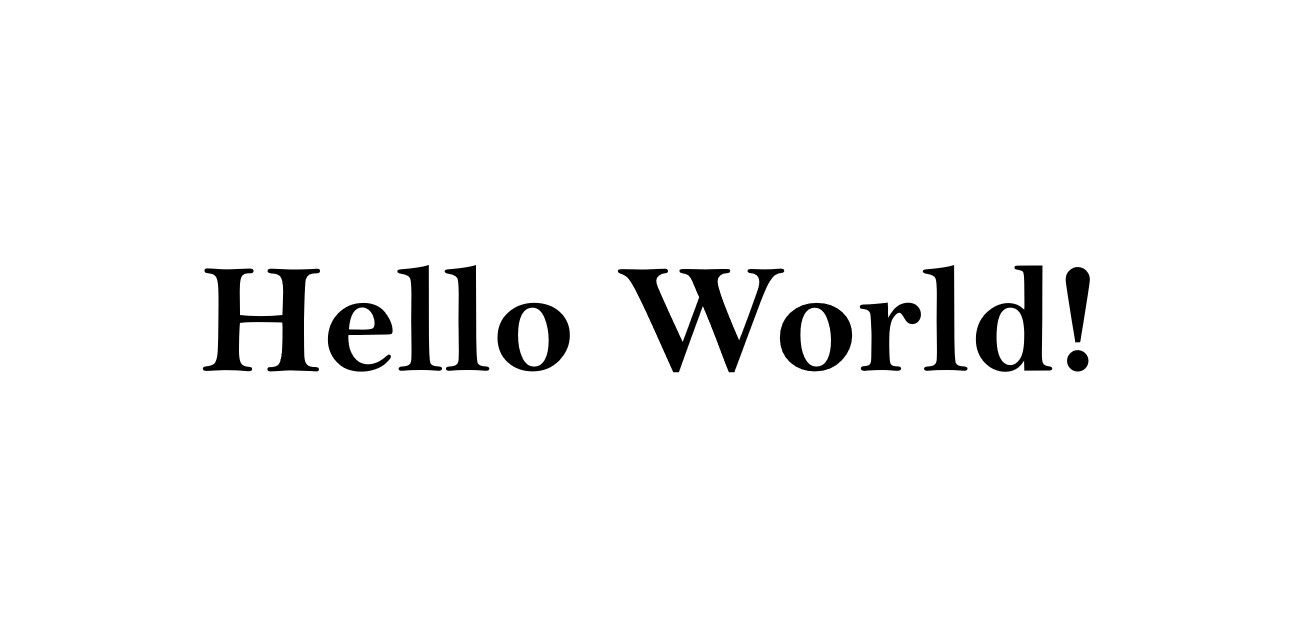
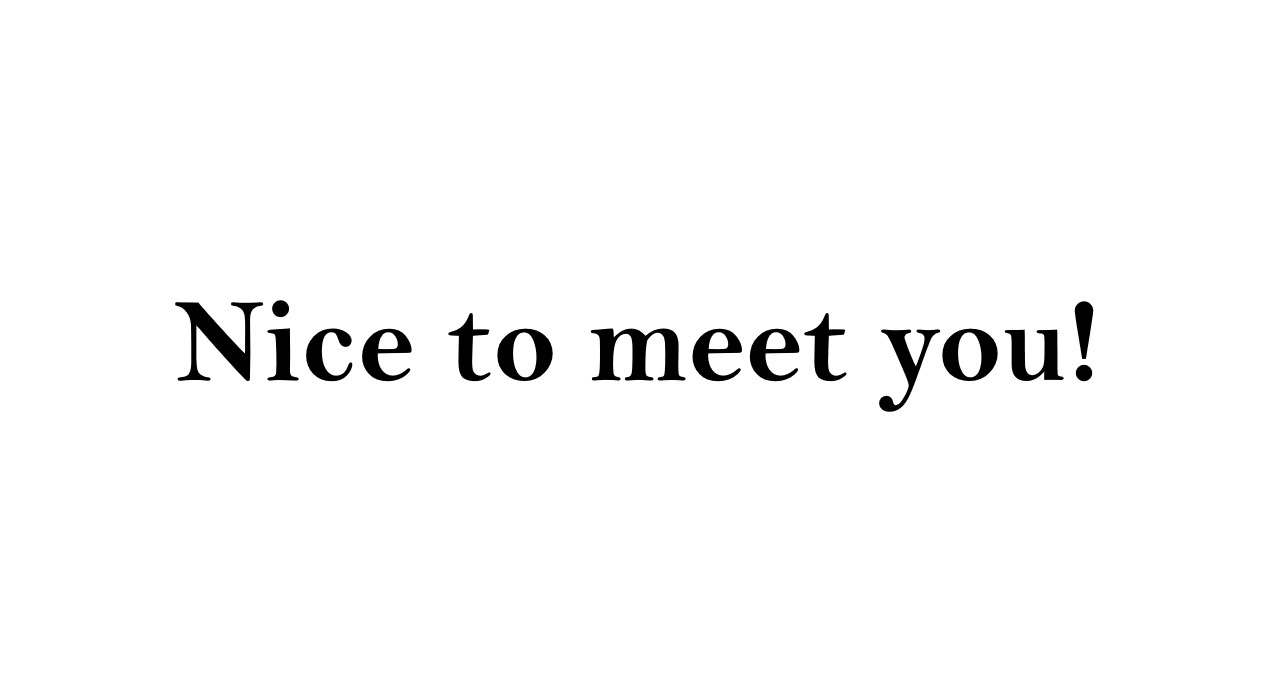
Site updated: 2020-10-13 13:43:07

Changed region(s): [[0.1225, 0.4056, 0.8578, 0.624]]

diff --git a/archives/2020/08/index.html b/archives/2020/08/index.html
@@ -84,33 +84,9 @@
     <div class="col-md-6 col-12 mb-4">
   <div class="hovereffect">
     <a href="/2020/08/12/hello-world/">
-      <img class="img-fluid portfolio-img" src="/images/Hello.jpg" alt="Hello World!">
+      <img class="img-fluid portfolio-img" src="/images/Hello.jpg" alt="Nice to meet you!">
       <div class="overlay">
-        <span class="overlay-text">Hello World!</span>
-      </div>
-    </a>
-  </div>
-</div>
-
-
-    <div class="col-md-6 col-12 mb-4">
-  <div class="hovereffect">
-    <a href="/2020/08/07/LRC/">
-      <img class="img-fluid portfolio-img" src="/images/3.jpg" alt="LRC">
-      <div class="overlay">
-        <span class="overlay-text">LRC</span>
-      </div>
-    </a>
-  </div>
-</div>
-
-
-    <div class="col-md-6 col-12 mb-4">
-  <div class="hovereffect">
-    <a href="/2020/08/07/Clusters/">
-      <img class="img-fluid portfolio-img" src="/images/Clusters.jpg" alt="Clusters">
-      <div class="overlay">
-        <span class="overlay-text">Clusters</span>
+        <span class="overlay-text">Nice to meet you!</span>
       </div>
     </a>
   </div>
@@ -131,10 +107,34 @@
 
     <div class="col-md-6 col-12 mb-4">
   <div class="hovereffect">
+    <a href="/2020/08/07/Clusters/">
+      <img class="img-fluid portfolio-img" src="/images/Clusters.jpg" alt="Clusters">
+      <div class="overlay">
+        <span class="overlay-text">Clusters</span>
+      </div>
+    </a>
+  </div>
+</div>
+
+
+    <div class="col-md-6 col-12 mb-4">
+  <div class="hovereffect">
     <a href="/2020/08/07/HUGO/">
       <img class="img-fluid portfolio-img" src="/images/HUGO.jpg" alt="HUGO">
       <div class="overlay">
         <span class="overlay-text">HUGO</span>
+      </div>
+    </a>
+  </div>
+</div>
+
+
+    <div class="col-md-6 col-12 mb-4">
+  <div class="hovereffect">
+    <a href="/2020/08/07/LRC/">
+      <img class="img-fluid portfolio-img" src="/images/3.jpg" alt="LRC">
+      <div class="overlay">
+        <span class="overlay-text">LRC</span>
       </div>
     </a>
   </div>

diff --git a/archives/2020/index.html b/archives/2020/index.html
@@ -96,33 +96,9 @@
     <div class="col-md-6 col-12 mb-4">
   <div class="hovereffect">
     <a href="/2020/08/12/hello-world/">
-      <img class="img-fluid portfolio-img" src="/images/Hello.jpg" alt="Hello World!">
+      <img class="img-fluid portfolio-img" src="/images/Hello.jpg" alt="Nice to meet you!">
       <div class="overlay">
-        <span class="overlay-text">Hello World!</span>
-      </div>
-    </a>
-  </div>
-</div>
-
-
-    <div class="col-md-6 col-12 mb-4">
-  <div class="hovereffect">
-    <a href="/2020/08/07/LRC/">
-      <img class="img-fluid portfolio-img" src="/images/3.jpg" alt="LRC">
-      <div class="overlay">
-        <span class="overlay-text">LRC</span>
-      </div>
-    </a>
-  </div>
-</div>
-
-
-    <div class="col-md-6 col-12 mb-4">
-  <div class="hovereffect">
-    <a href="/2020/08/07/Clusters/">
-      <img class="img-fluid portfolio-img" src="/images/Clusters.jpg" alt="Clusters">
-      <div class="overlay">
-        <span class="overlay-text">Clusters</span>
+        <span class="overlay-text">Nice to meet you!</span>
       </div>
     </a>
   </div>
@@ -143,10 +119,34 @@
 
     <div class="col-md-6 col-12 mb-4">
   <div class="hovereffect">
+    <a href="/2020/08/07/Clusters/">
+      <img class="img-fluid portfolio-img" src="/images/Clusters.jpg" alt="Clusters">
+      <div class="overlay">
+        <span class="overlay-text">Clusters</span>
+      </div>
+    </a>
+  </div>
+</div>
+
+
+    <div class="col-md-6 col-12 mb-4">
+  <div class="hovereffect">
     <a href="/2020/08/07/HUGO/">
       <img class="img-fluid portfolio-img" src="/images/HUGO.jpg" alt="HUGO">
       <div class="overlay">
         <span class="overlay-text">HUGO</span>
+      </div>
+    </a>
+  </div>
+</div>
+
+
+    <div class="col-md-6 col-12 mb-4">
+  <div class="hovereffect">
+    <a href="/2020/08/07/LRC/">
+      <img class="img-fluid portfolio-img" src="/images/3.jpg" alt="LRC">
+      <div class="overlay">
+        <span class="overlay-text">LRC</span>
       </div>
     </a>
   </div>

diff --git a/archives/index.html b/archives/index.html
@@ -96,33 +96,9 @@
     <div class="col-md-6 col-12 mb-4">
   <div class="hovereffect">
     <a href="/2020/08/12/hello-world/">
-      <img class="img-fluid portfolio-img" src="/images/Hello.jpg" alt="Hello World!">
+      <img class="img-fluid portfolio-img" src="/images/Hello.jpg" alt="Nice to meet you!">
       <div class="overlay">
-        <span class="overlay-text">Hello World!</span>
-      </div>
-    </a>
-  </div>
-</div>
-
-
-    <div class="col-md-6 col-12 mb-4">
-  <div class="hovereffect">
-    <a href="/2020/08/07/LRC/">
-      <img class="img-fluid portfolio-img" src="/images/3.jpg" alt="LRC">
-      <div class="overlay">
-        <span class="overlay-text">LRC</span>
-      </div>
-    </a>
-  </div>
-</div>
-
-
-    <div class="col-md-6 col-12 mb-4">
-  <div class="hovereffect">
-    <a href="/2020/08/07/Clusters/">
-      <img class="img-fluid portfolio-img" src="/images/Clusters.jpg" alt="Clusters">
-      <div class="overlay">
-        <span class="overlay-text">Clusters</span>
+        <span class="overlay-text">Nice to meet you!</span>
       </div>
     </a>
   </div>
@@ -143,10 +119,34 @@
 
     <div class="col-md-6 col-12 mb-4">
   <div class="hovereffect">
+    <a href="/2020/08/07/Clusters/">
+      <img class="img-fluid portfolio-img" src="/images/Clusters.jpg" alt="Clusters">
+      <div class="overlay">
+        <span class="overlay-text">Clusters</span>
+      </div>
+    </a>
+  </div>
+</div>
+
+
+    <div class="col-md-6 col-12 mb-4">
+  <div class="hovereffect">
     <a href="/2020/08/07/HUGO/">
       <img class="img-fluid portfolio-img" src="/images/HUGO.jpg" alt="HUGO">
       <div class="overlay">
         <span class="overlay-text">HUGO</span>
+      </div>
+    </a>
+  </div>
+</div>
+
+
+    <div class="col-md-6 col-12 mb-4">
+  <div class="hovereffect">
+    <a href="/2020/08/07/LRC/">
+      <img class="img-fluid portfolio-img" src="/images/3.jpg" alt="LRC">
+      <div class="overlay">
+        <span class="overlay-text">LRC</span>
       </div>
     </a>
   </div>

diff --git a/index.html b/index.html
@@ -96,33 +96,9 @@
     <div class="col-md-6 col-12 mb-4">
   <div class="hovereffect">
     <a href="/2020/08/12/hello-world/">
-      <img class="img-fluid portfolio-img" src="/images/Hello.jpg" alt="Hello World!">
+      <img class="img-fluid portfolio-img" src="/images/Hello.jpg" alt="Nice to meet you!">
       <div class="overlay">
-        <span class="overlay-text">Hello World!</span>
-      </div>
-    </a>
-  </div>
-</div>
-
-
-    <div class="col-md-6 col-12 mb-4">
-  <div class="hovereffect">
-    <a href="/2020/08/07/LRC/">
-      <img class="img-fluid portfolio-img" src="/images/3.jpg" alt="LRC">
-      <div class="overlay">
-        <span class="overlay-text">LRC</span>
-      </div>
-    </a>
-  </div>
-</div>
-
-
-    <div class="col-md-6 col-12 mb-4">
-  <div class="hovereffect">
-    <a href="/2020/08/07/Clusters/">
-      <img class="img-fluid portfolio-img" src="/images/Clusters.jpg" alt="Clusters">
-      <div class="overlay">
-        <span class="overlay-text">Clusters</span>
+        <span class="overlay-text">Nice to meet you!</span>
       </div>
     </a>
   </div>
@@ -143,10 +119,34 @@
 
     <div class="col-md-6 col-12 mb-4">
   <div class="hovereffect">
+    <a href="/2020/08/07/Clusters/">
+      <img class="img-fluid portfolio-img" src="/images/Clusters.jpg" alt="Clusters">
+      <div class="overlay">
+        <span class="overlay-text">Clusters</span>
+      </div>
+    </a>
+  </div>
+</div>
+
+
+    <div class="col-md-6 col-12 mb-4">
+  <div class="hovereffect">
     <a href="/2020/08/07/HUGO/">
       <img class="img-fluid portfolio-img" src="/images/HUGO.jpg" alt="HUGO">
       <div class="overlay">
         <span class="overlay-text">HUGO</span>
+      </div>
+    </a>
+  </div>
+</div>
+
+
+    <div class="col-md-6 col-12 mb-4">
+  <div class="hovereffect">
+    <a href="/2020/08/07/LRC/">
+      <img class="img-fluid portfolio-img" src="/images/3.jpg" alt="LRC">
+      <div class="overlay">
+        <span class="overlay-text">LRC</span>
       </div>
     </a>
   </div>

diff --git a/contact/index.html b/contact/index.html
@@ -15,7 +15,7 @@
 
   <!--Description-->
   
-      <meta name="description" content="Contact me  Email: &amp;#108;&amp;#x6f;&amp;#x75;&amp;#x69;&amp;#x73;&amp;#x6c;&amp;#105;&amp;#117;&amp;#x30;&amp;#x36;&amp;#x31;&amp;#52;&amp;#64;&amp;#111;&amp;#117;&amp;#x74;&amp;#x6c;&amp;#111;&amp;#x6f;&amp;#x6b;&amp;#x2e;&amp;#x63;&amp;">
+      <meta name="description" content="Contact me  Email: &amp;#108;&amp;#111;&amp;#x75;&amp;#x69;&amp;#115;&amp;#108;&amp;#105;&amp;#x75;&amp;#x30;&amp;#54;&amp;#x31;&amp;#x34;&amp;#x40;&amp;#111;&amp;#117;&amp;#x74;&amp;#x6c;&amp;#111;&amp;#x6f;&amp;#107;&amp;#x2e;&amp;#x63;">
   
 
   <!--Author-->
@@ -84,7 +84,7 @@
   		<div class="row">
   			
 <div class="col-12 pt-lg-3 mb-4 px-4 portfolio-content">
-  <p><font face="Bell MT"> <strong>Contact me</strong> </font><br><font face="Bell MT"> Email: <a href="mailto:&#108;&#x6f;&#x75;&#x69;&#x73;&#x6c;&#105;&#117;&#x30;&#x36;&#x31;&#52;&#64;&#111;&#117;&#x74;&#x6c;&#111;&#x6f;&#x6b;&#x2e;&#x63;&#111;&#109;">&#108;&#x6f;&#x75;&#x69;&#x73;&#x6c;&#105;&#117;&#x30;&#x36;&#x31;&#52;&#64;&#111;&#117;&#x74;&#x6c;&#111;&#x6f;&#x6b;&#x2e;&#x63;&#111;&#109;</a> </font><br><font face="Bell MT"> Telegram: <a target="_blank" rel="noopener" href="https://t.me/XiaoxingLiu">https://t.me/XiaoxingLiu</a> </font></p>
+  <p><font face="Bell MT"> <strong>Contact me</strong> </font><br><font face="Bell MT"> Email: <a href="mailto:&#108;&#111;&#x75;&#x69;&#115;&#108;&#105;&#x75;&#x30;&#54;&#x31;&#x34;&#x40;&#111;&#117;&#x74;&#x6c;&#111;&#x6f;&#107;&#x2e;&#x63;&#x6f;&#x6d;">&#108;&#111;&#x75;&#x69;&#115;&#108;&#105;&#x75;&#x30;&#54;&#x31;&#x34;&#x40;&#111;&#117;&#x74;&#x6c;&#111;&#x6f;&#107;&#x2e;&#x63;&#x6f;&#x6d;</a> </font><br><font face="Bell MT"> Telegram: <a target="_blank" rel="noopener" href="https://t.me/XiaoxingLiu">https://t.me/XiaoxingLiu</a> </font></p>
 
 </div>
 

diff --git a/about/index.html b/about/index.html
@@ -15,7 +15,7 @@
 
   <!--Description-->
   
-      <meta name="description" content="Contact me  Email: &amp;#x6c;&amp;#x6f;&amp;#117;&amp;#x69;&amp;#x73;&amp;#108;&amp;#105;&amp;#117;&amp;#48;&amp;#x36;&amp;#x31;&amp;#52;&amp;#x40;&amp;#x6f;&amp;#117;&amp;#x74;&amp;#x6c;&amp;#x6f;&amp;#111;&amp;#107;&amp;#46;&amp;#99;&amp;#1">
+      <meta name="description" content="Contact me  Email: &amp;#x6c;&amp;#x6f;&amp;#117;&amp;#x69;&amp;#x73;&amp;#x6c;&amp;#105;&amp;#x75;&amp;#x30;&amp;#54;&amp;#49;&amp;#52;&amp;#x40;&amp;#x6f;&amp;#x75;&amp;#x74;&amp;#x6c;&amp;#x6f;&amp;#111;&amp;#x6b;&amp;#x2e;&amp;#x63;&amp;#">
   
 
   <!--Author-->
@@ -84,7 +84,7 @@
   		<div class="row">
   			
 <div class="col-12 pt-lg-3 mb-4 px-4 portfolio-content">
-  <p><font face="Bell MT"> <strong>Contact me</strong> </font><br><font face="Bell MT"> Email: <a href="mailto:&#x6c;&#x6f;&#117;&#x69;&#x73;&#108;&#105;&#117;&#48;&#x36;&#x31;&#52;&#x40;&#x6f;&#117;&#x74;&#x6c;&#x6f;&#111;&#107;&#46;&#99;&#111;&#109;">&#x6c;&#x6f;&#117;&#x69;&#x73;&#108;&#105;&#117;&#48;&#x36;&#x31;&#52;&#x40;&#x6f;&#117;&#x74;&#x6c;&#x6f;&#111;&#107;&#46;&#99;&#111;&#109;</a> </font><br><font face="Bell MT"> Telegram: <a target="_blank" rel="noopener" href="https://t.me/XiaoxingLiu">https://t.me/XiaoxingLiu</a> </font></p>
+  <p><font face="Bell MT"> <strong>Contact me</strong> </font><br><font face="Bell MT"> Email: <a href="mailto:&#x6c;&#x6f;&#117;&#x69;&#x73;&#x6c;&#105;&#x75;&#x30;&#54;&#49;&#52;&#x40;&#x6f;&#x75;&#x74;&#x6c;&#x6f;&#111;&#x6b;&#x2e;&#x63;&#111;&#109;">&#x6c;&#x6f;&#117;&#x69;&#x73;&#x6c;&#105;&#x75;&#x30;&#54;&#49;&#52;&#x40;&#x6f;&#x75;&#x74;&#x6c;&#x6f;&#111;&#x6b;&#x2e;&#x63;&#111;&#109;</a> </font><br><font face="Bell MT"> Telegram: <a target="_blank" rel="noopener" href="https://t.me/XiaoxingLiu">https://t.me/XiaoxingLiu</a> </font></p>
 
 </div>
 

diff --git a/2020/08/12/hello-world/index.html b/2020/08/12/hello-world/index.html
@@ -8,7 +8,7 @@
 
   <!-- Title -->
   
-  <title>Hello World! - Kaiyang Liu</title>
+  <title>Nice to meet you! - Kaiyang Liu</title>
 
   <!--Favicon-->
   <link rel="icon" href="favicon/favicon.ico">
@@ -83,10 +83,10 @@
 
   		<div class="row">
   			<div class="col-12 mb-4">
-  <img class="img-fluid project-img" src="/images/Hello.jpg" alt="Hello World!">
+  <img class="img-fluid project-img" src="/images/Hello.jpg" alt="Nice to meet you!">
 </div>
 <div class="col-lg-4 col-12 pt-3 px-4 pr-lg-5">
-  <h1>Hello World!</h1>
+  <h1>Nice to meet you!</h1>
 </div>
 <div class="col-lg-8 col-12 pt-lg-3 mb-4 pl-lg-5 px-lg-0 px-4 portfolio-content">
   <p>Welcome to <a target="_blank" rel="noopener" href="https://hexo.io/">Hexo</a>! This is your very first post. Check <a target="_blank" rel="noopener" href="https://hexo.io/docs/">documentation</a> for more info. If you get any problems when using Hexo, you can find the answer in <a target="_blank" rel="noopener" href="https://hexo.io/docs/troubleshooting.html">troubleshooting</a> or you can ask me on <a target="_blank" rel="noopener" href="https://github.com/hexojs/hexo/issues">GitHub</a>.</p>
